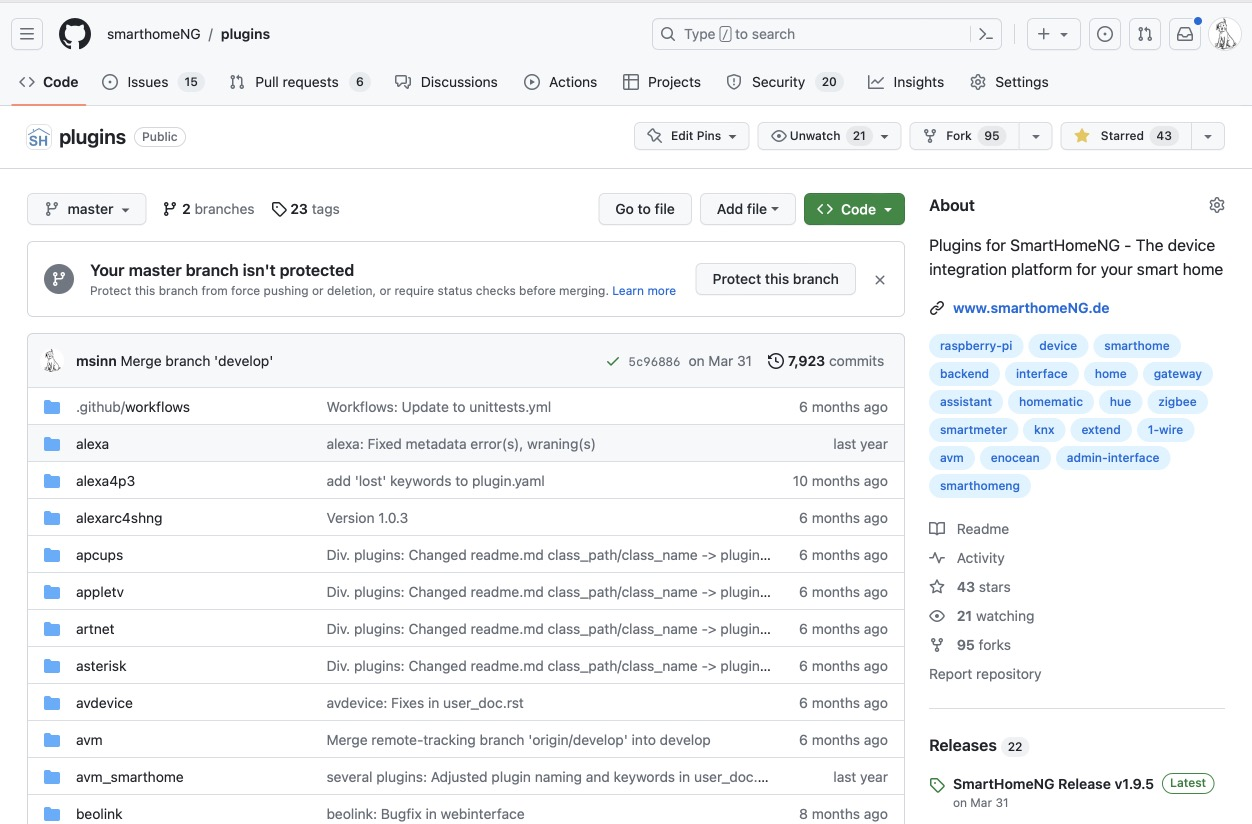
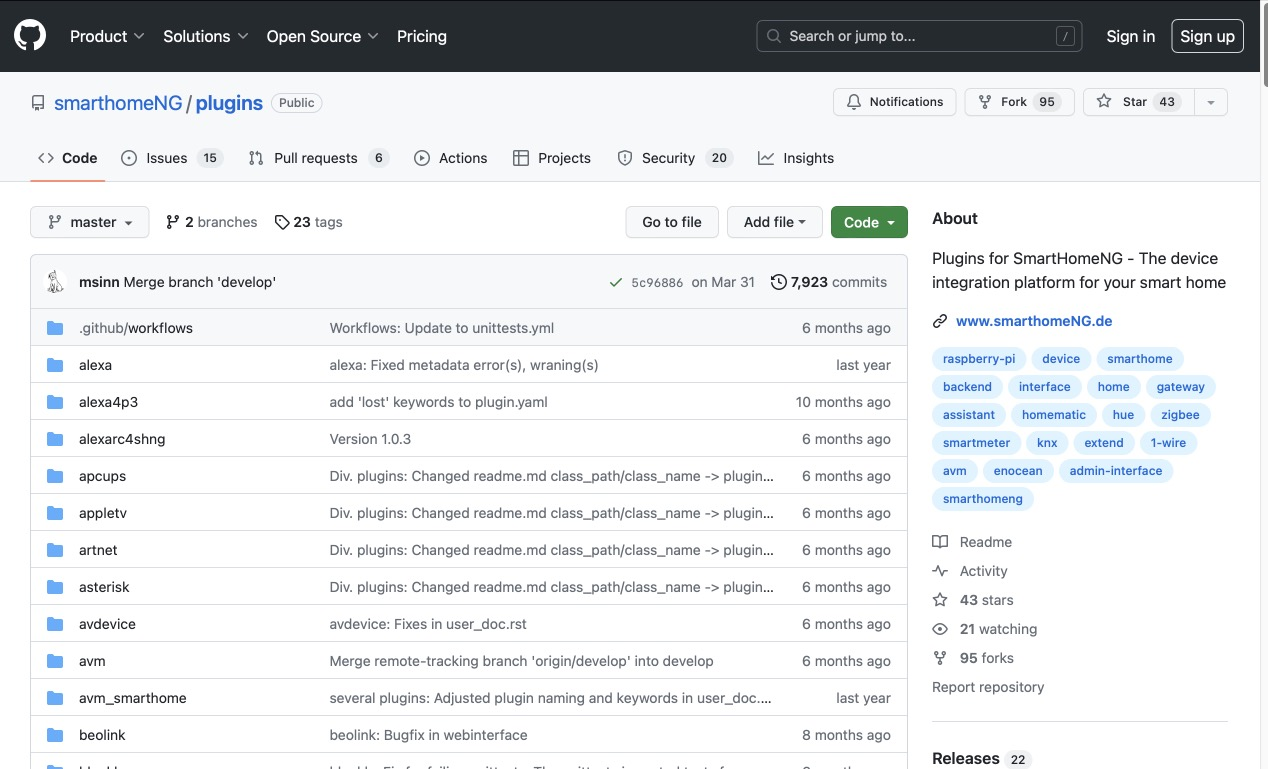
Documentation Updates

Changed region(s): [[0.0, 0.0, 1.0, 1.0], [0.9657, 0.2185, 0.9968, 0.2497], [0.5296, 0.9987, 0.5607, 1.0]]

diff --git a/doc/user/source/beispiele/plugins/plugin_aus_develop.rst b/doc/user/source/beispiele/plugins/plugin_aus_develop.rst
@@ -14,7 +14,7 @@ zu installieren. Dazu sind folgende Schritte durchzuführen:
 Plugins Repository aufrufen
 ---------------------------
 
-Im Browser die Seite http://www.github.com/smarthomemg/plugins aufrufen:
+Im Browser die Seite http://www.github.com/smarthomeng/plugins aufrufen:
 
 .. image:: ../assets/plugin_install_1.jpg
    :class: screenshot
@@ -33,7 +33,7 @@ Plugins Repository Download
 
 Anschließend auf den grünen **Code** Button klicken und **Download ZIP** auswählen:
 
-.. image:: ../assets/plugin_install_2.jpg
+.. image:: ../assets/plugin_install_3.jpg
    :class: screenshot
 
 |
